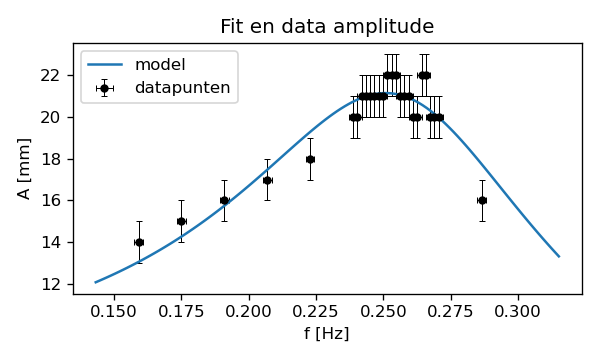
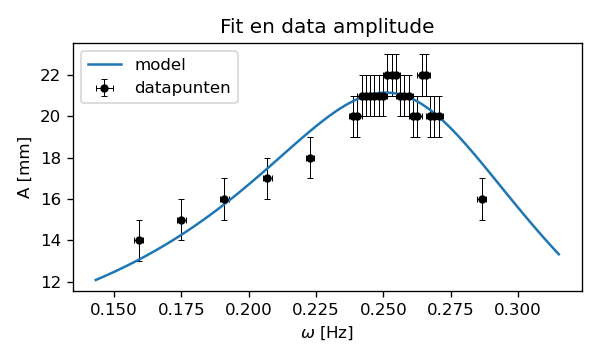
meer grafieken

diff --git a/Practicum6/data-analyse.py b/Practicum6/data-analyse.py
@@ -83,7 +83,7 @@ if False:
 
     plt.show()
 # data 2 amplitude fit
-if True:
+if False:
      param_names = ['F', 'w', 'm', 'n']
      initial_guess = [0.1, 0.1, 0.1, 0.1]
 
@@ -96,30 +96,49 @@ if True:
      X_sq(data, param_names, initial_guess, model,
          root_attempts=None, datafile=None,
          VERBOSE=False, LaTeX=True,
-         PLOT=True, graf1_title='Fit en data amplitude', graf1_x_label='f [Hz]', graf1_y_label='A [mm]'
+         PLOT=True, graf1_title='Fit en data amplitude', graf1_x_label=r'$\omega$ [Hz]', graf1_y_label='A [mm]'
         )
+# frequentie fit2 semi lineair
 if False:
-    param_names = ['w', 'm', 'n']
+    param_names = ['w', 'C']
     initial_guess = [1.69, 0.07, 0.006]
 
     def model(params, x):
-        w, m, n = params
-        return (w**2-x**2)/(x*(n/m))
+        w, C = params
+        return (w**2-x**2)/(x*C)
     
-    data = ((f2, f_E2), (1/np.tan(phi2), phi_E2/np.sin(phi2)**2))
+    data = ((f2, np.ones_like(f2)*0), (1/np.tan(phi2), phi_E2/np.sin(phi2)**2))
 
     X_sq(data, param_names, initial_guess, model,
         root_attempts=None, datafile=None,
         VERBOSE=False, LaTeX=True,
         PLOT=True, graf1_title=r'Fit voor $\phi$(f)', graf1_x_label='f [Hz]', graf1_y_label=r'$1/tan(\phi)$ [/]'
         )
-if False:
-    param_names = ['w', 'm', 'n']
-    initial_guess = [1.69, 0.07, 0.006]
+#frequentie fit 2 niet lineair
+if True:
+    param_names = ['w', 'C','S']
+    initial_guess = [0.26, -0.07, 1]
 
     def model(params, x):
-        w, m, n = params
-        return (w**2-x**2)/(x*(n/m))
+        w, C, S= params
+        return S-np.arctan2((x*C),(w**2-x**2))
+    
+    data = ((f, f_E), ((-phi), phi_E))
+
+    X_sq(data, param_names, initial_guess, model,
+        root_attempts=None, datafile=None,
+        VERBOSE=False, LaTeX=True,
+        PLOT=True, graf1_title=r'Fit voor $\phi$(f)', graf1_x_label='f [Hz]', graf1_y_label=r'$(\phi)$ [/]'
+        )
+
+ # frequentie fit1 semi-lineair DEZE IS ASS
+if True:
+    param_names = ['w', 'C']
+    initial_guess = [1.69, 0.006]
+
+    def model(params, x):
+        w, C = params
+        return (w**2-x**2)/(x*C)
     
     data = ((f, f_E), (1/np.tan(phi), phi_E/np.sin(phi)**2))
 

diff --git a/Practicum6/george.py b/Practicum6/george.py
@@ -1,0 +1,5 @@
+from fit_file import X_sq
+import numpy as np
+import matplotlib.pyplot as plt
+
+file=np.loadtxt("Practicum6/HELP.txt", delimiter=' ').T
